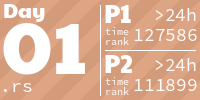
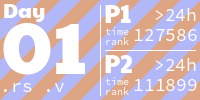
Tiles

diff --git a/README.md b/README.md
@@ -233,7 +233,7 @@
   <img src=".aoc_tiles/tiles/2021/10.png" width="161px">
 </a>
 <h1 align="center">
-  2019 - 2 ⭐ - Rust
+  2019 - 2 ⭐ - Rust/Verilog
 </h1>
 <a href="2019/d1/src/main.rs">
   <img src=".aoc_tiles/tiles/2019/01.png" width="161px">
